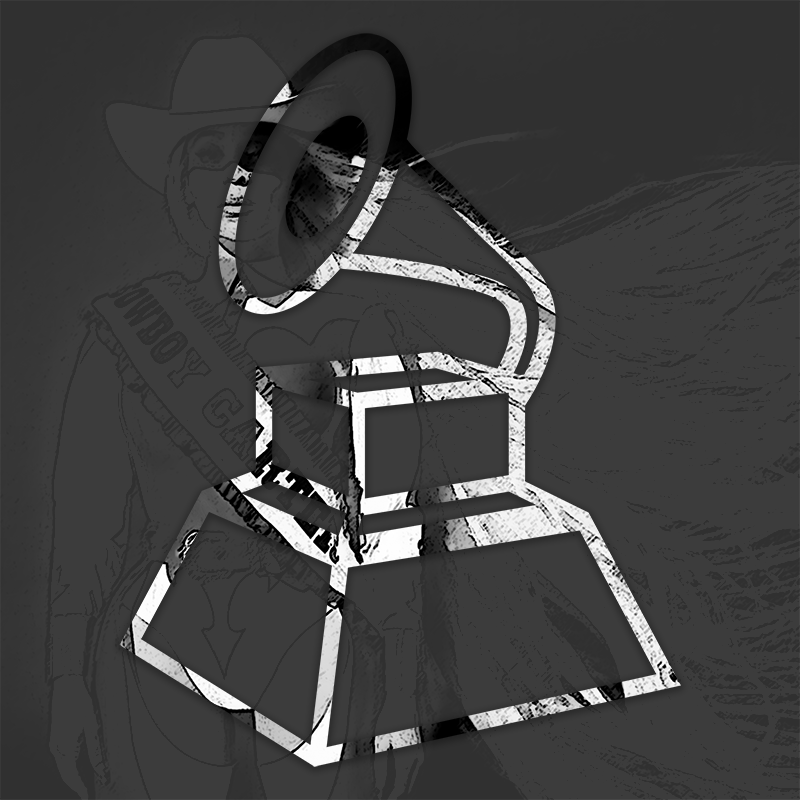
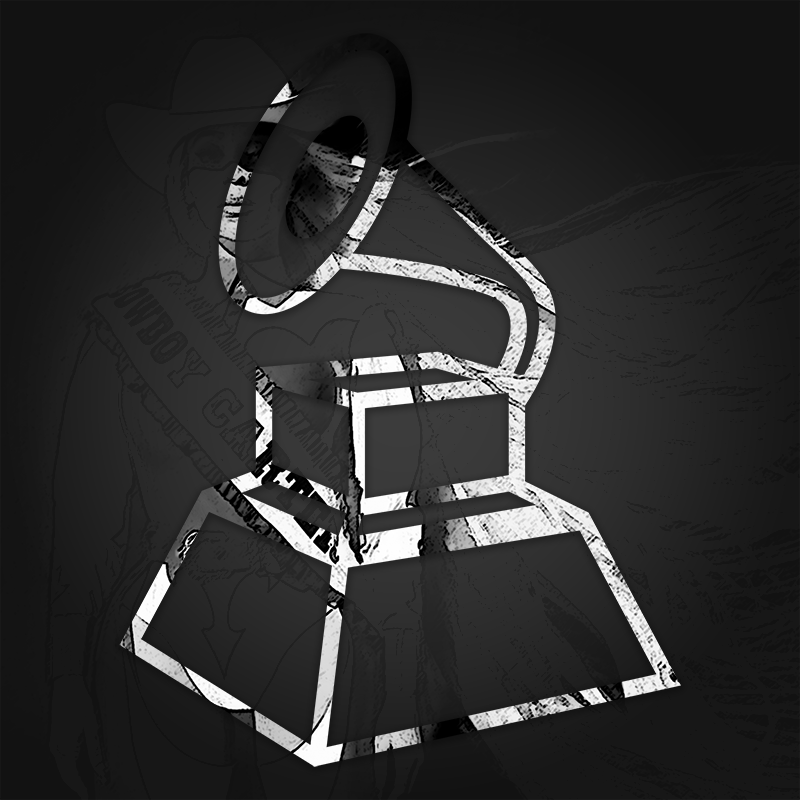
so

diff --git a/Next-Level-Coding/X2/PosterTest1.html b/Next-Level-Coding/X2/PosterTest1.html
@@ -13,7 +13,7 @@
         display: flex;
         justify-content: center;
         align-items: center;
-        background: #3c3c3c;
+        background: #121212;
         /* cursor: url('cursor.svg') 30 30; */
       }
     </style>
